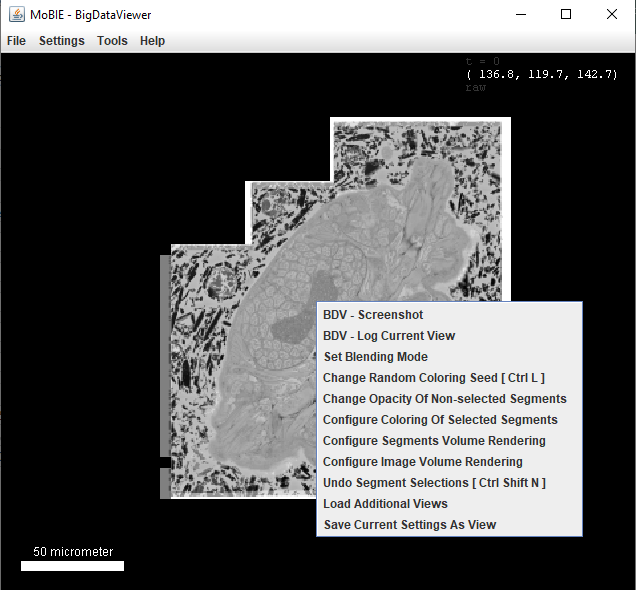
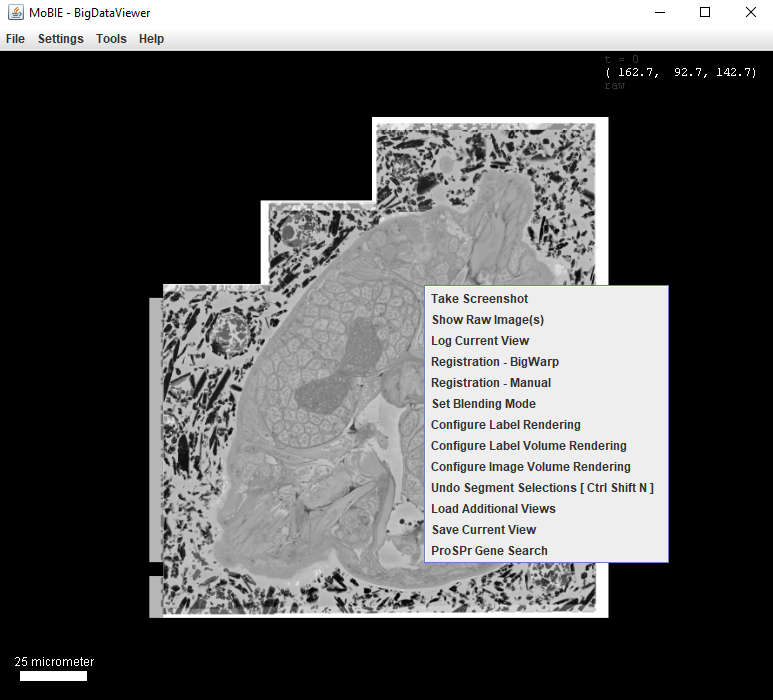
update tutorials

diff --git a/tutorials/exploring_segmentations.md b/tutorials/exploring_segmentations.md
@@ -22,13 +22,22 @@ More options are available if you right click in the viewer:
 
 <img width="500" alt="image" src="./tutorial_images/contextMenu.png">
 
-- **Change Random Coloring Seed** Same as Ctrl + L above.
-- **Change Opacity of Non-selected Segments** Changes opacity of non-selected segments
-- **Configure Coloring Of Selected Segments** Can change between showing Segments
-in the 'default colour' (i.e. whatever their current colour is), or a specified 'selected color'.
-- **Configure Segments Volume Rendering** Change resolution with which segments are
+- **Configure Label Rendering** - this will open a menu allowing you to change
+how labels are displayed in the viewer.
+<img width="350" alt="image" src="./tutorial_images/configureLabelRendering.png">
+
+  - **Show labels as boundaries** - display only the boundaries of segmented objects, e.g.:
+  <img width="300" alt="image" src="./tutorial_images/boundaryRendering.png">
+  - **Boundary thickness** - the thickness of the displayed boundary (if 'show labels as boundaries' is enabled)
+  - **Selected labels coloring** - Can change between showing labels
+  in the 'Label color' (i.e. whatever their current colour is), or a specified 'Selection color'.
+  - **Selection color** - the colour of selected labels if 'Selected labels coloring' is set to 'Selection color'
+  - **Opacity of non-selected labels** Changes opacity of non-selected labels
+  - **Increment random color seed [ Ctrl L ]** Same as Ctrl + L above.
+
+- **Configure Label Volume Rendering** Change resolution with which labels are
 shown in the 3D viewer.
-- **Undo Segment Selections** Same as Ctrl + Shift + N above.
+- **Undo Segment Selections [ Ctrl Shift N ]** Same as Ctrl + Shift + N above.
 
 ### Interacting with segmentation table
 

diff --git a/tutorials/expert_mode.md b/tutorials/expert_mode.md
@@ -49,3 +49,13 @@ This will bring up a dialog, as below:
  - **Image Data Location** - github repository, s3 location, or local file path
  - **Table Data Location** - github repository, s3 location or local file path
  - **Table Data Branch** - which git branch to load data from
+
+### Open MoBIE Project Branch
+
+If you only want to open a certain github branch of a project (without separate control over metadata, images an tables), you can use the **Open MoBIE Project Branch** command:
+
+<img width="600" alt="image" src="./tutorial_images/openMoBIEProjectBranch.png">
+
+This will open a simplified dialog where you can select the github project location and branch.
+
+<img width="250" alt="image" src="./tutorial_images/openMoBIEProjectBranchDialog.png">

diff --git a/tutorials/views_and_locations.md b/tutorials/views_and_locations.md
@@ -8,7 +8,7 @@ The current coordinates of your mouse are displayed in the top right corner of t
 ### Saving a location / orientation
 
 To save your current location and orientation, you can right click in the viewer and select
-**BDV - Log Current View**
+**Log Current View**
 
 <img width="500" alt="image" src="./tutorial_images/logLocation.png">
 
